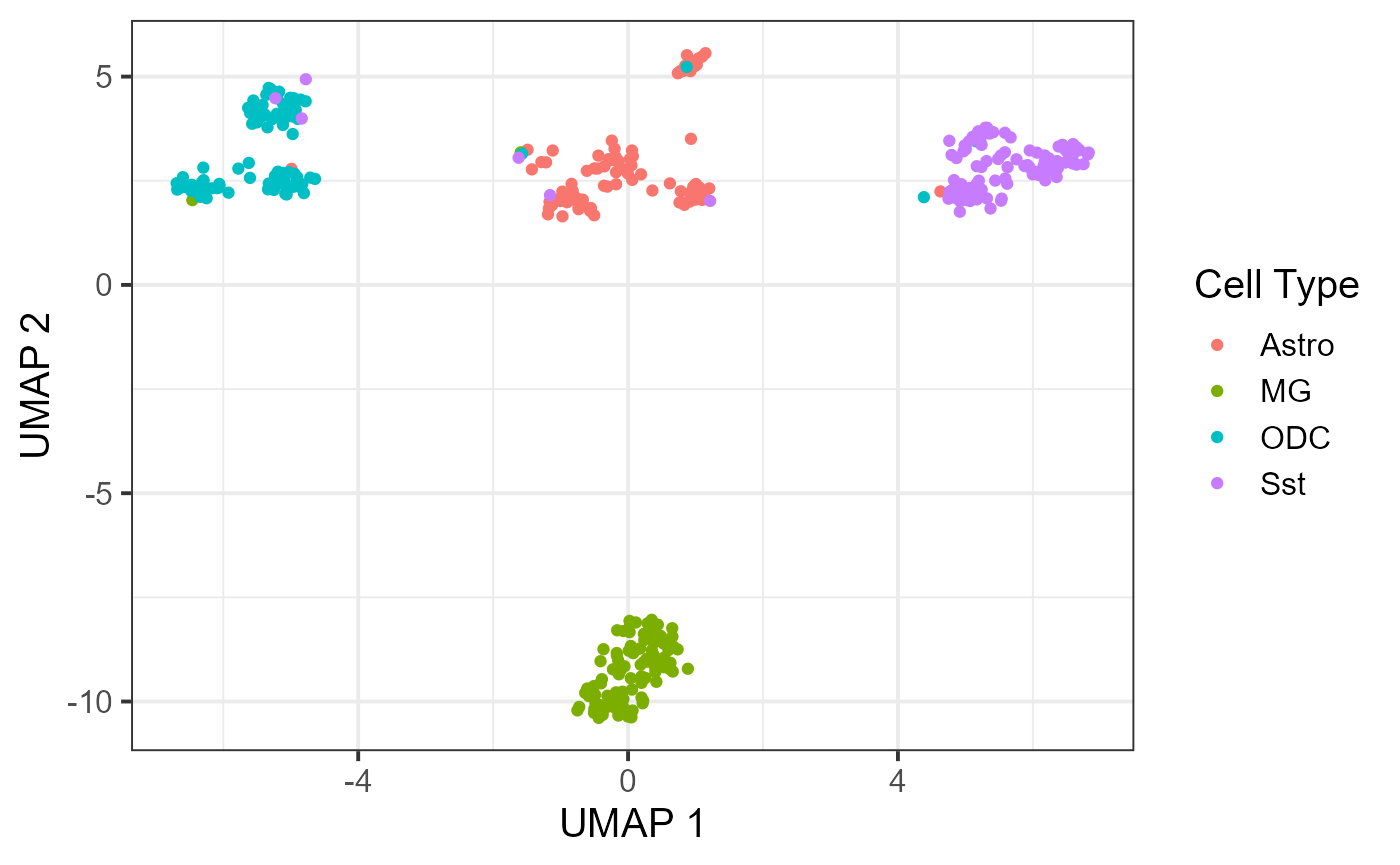
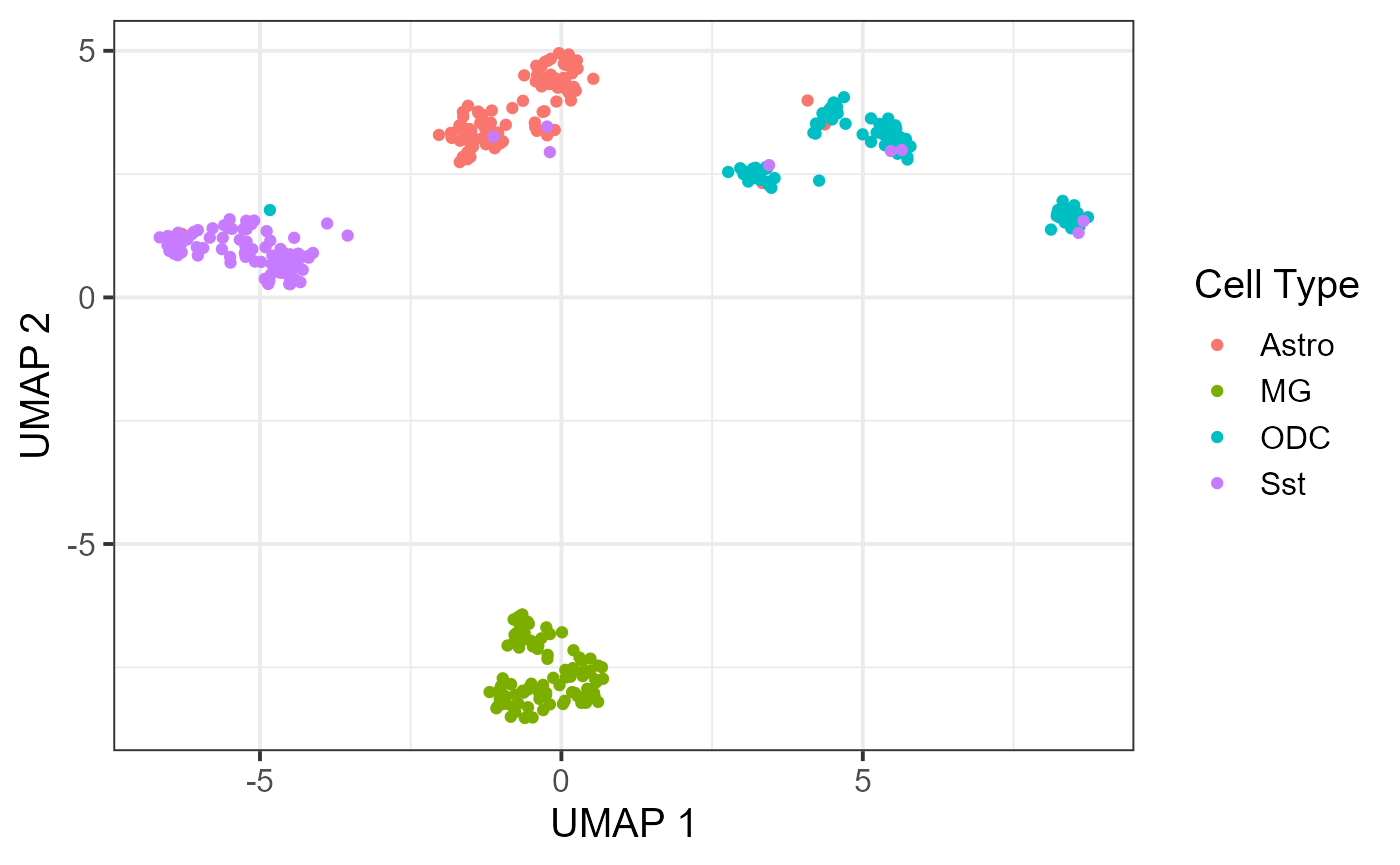
Add files via upload

diff --git a/docs/articles/BandNorm-tutorial.html b/docs/articles/BandNorm-tutorial.html
@@ -238,107 +238,109 @@ chr1    2000000 chr1    4000000 2</code></pre>
 <span class="co">#&gt; Harmony 5/10</span>
 <span class="co">#&gt; Harmony 6/10</span>
 <span class="co">#&gt; Harmony 7/10</span>
-<span class="co">#&gt; Harmony converged after 7 iterations</span>
+<span class="co">#&gt; Harmony 8/10</span>
+<span class="co">#&gt; Harmony 9/10</span>
+<span class="co">#&gt; Harmony converged after 9 iterations</span>
 <span class="va">embedding</span><span class="op">[</span><span class="fl">1</span><span class="op">:</span><span class="fl">10</span>, <span class="op">]</span>
-<span class="co">#&gt;                  PC1       PC2        PC3         PC4        PC5        PC6</span>
-<span class="co">#&gt; Astro_1    1.0293516 49.473692 -76.618811 -36.8752564 -42.022535 -23.354049</span>
-<span class="co">#&gt; Astro_2   -9.1977209 32.347768  -2.756897   8.3822718  -8.160682   4.438291</span>
-<span class="co">#&gt; Astro_3   -0.5292853 14.812305  -2.973394   1.6324264  11.047545 -10.023949</span>
-<span class="co">#&gt; Astro_4   -6.0115586 37.463300 -29.961596  11.2777084 -13.797429  -6.104187</span>
-<span class="co">#&gt; Astro_5   12.0999009 18.577941 -23.574044  13.2213510 -26.996703 -10.876395</span>
-<span class="co">#&gt; Astro_6  -20.6892354 13.743482 -24.919865  -0.7956708  -3.135400   7.802125</span>
-<span class="co">#&gt; Astro_7  -49.4006359 29.103575 -20.027626   6.8908420   1.295028  -1.965032</span>
-<span class="co">#&gt; Astro_8  -11.7727162 34.881938  -6.166616   8.6403040  -6.384149   4.617832</span>
-<span class="co">#&gt; Astro_9  -11.5708831  8.350641 -22.892308  18.7070499 -15.263220  -5.301028</span>
-<span class="co">#&gt; Astro_10 -16.0734039  4.329660 -18.211048   3.1339731 -23.705511  -9.755443</span>
+<span class="co">#&gt;                  PC1       PC2        PC3       PC4         PC5         PC6</span>
+<span class="co">#&gt; Astro_1  -14.6501131 35.794040 -26.929957 33.270183 -33.4263965 -14.2704124</span>
+<span class="co">#&gt; Astro_2  -11.5493750 32.890940   6.022335 12.747598  -6.8500454   4.4846891</span>
+<span class="co">#&gt; Astro_3  -17.9082522 -2.696272 -11.285644 11.141142  -3.6862742 -48.0467603</span>
+<span class="co">#&gt; Astro_4   -4.0823762 30.183169 -23.291190 10.309232  -8.4422266 -12.4845300</span>
+<span class="co">#&gt; Astro_5   16.1390904 16.817009 -26.294061  9.440128 -19.1067581 -11.5911731</span>
+<span class="co">#&gt; Astro_6  -21.0654989 16.484312 -20.201085 -1.818684  -2.0594665   8.8280593</span>
+<span class="co">#&gt; Astro_7  -42.9475014 15.403276 -21.558178 11.339661 -19.2460629 -32.3324311</span>
+<span class="co">#&gt; Astro_8    0.8464861 42.795417   1.403291  7.676227   0.2831818  16.4428145</span>
+<span class="co">#&gt; Astro_9   -9.0018860  8.421569 -15.209882 14.800875  -9.5577083   0.3454511</span>
+<span class="co">#&gt; Astro_10 -16.6289712  6.869891 -13.377367  2.156844 -22.7214611  -9.0985568</span>
 <span class="co">#&gt;                 PC7        PC8       PC9        PC10       PC11       PC12</span>
-<span class="co">#&gt; Astro_1    5.463078 -39.908755 37.371895  -7.5543198  38.568930 -33.102037</span>
-<span class="co">#&gt; Astro_2   -3.914980  -3.740787  9.324096  14.9302331  22.664567 -24.724161</span>
-<span class="co">#&gt; Astro_3  -27.728462  22.269925  5.494555  15.0396810  -3.799887  -8.524067</span>
-<span class="co">#&gt; Astro_4   -3.742008   7.242514  5.243161  -1.9170383 -17.179946 -18.222599</span>
-<span class="co">#&gt; Astro_5   -4.774827   7.453127 46.319538  29.1508380  81.142666 -46.266262</span>
-<span class="co">#&gt; Astro_6  -12.451910  -3.223360 -2.009652   1.1047054   6.289144 -43.766538</span>
-<span class="co">#&gt; Astro_7   -7.223646  -1.338891 -7.333724  -6.9135170  -6.937292  -5.093652</span>
-<span class="co">#&gt; Astro_8  -20.610865   6.190320 -1.715928   0.5955311  17.998392   9.602011</span>
-<span class="co">#&gt; Astro_9   18.812482  27.737164 48.252583  11.8094384  41.092434 -67.756942</span>
-<span class="co">#&gt; Astro_10  11.236069  -2.918244 28.993287 -16.9185304  11.773731 -29.898823</span>
-<span class="co">#&gt;                PC13       PC14       PC15        PC16       PC17        PC18</span>
-<span class="co">#&gt; Astro_1   36.450373 -16.727650  26.892309  -8.1290435  51.809195 -44.4848454</span>
-<span class="co">#&gt; Astro_2   -1.020508   7.944943  -3.754481  10.9843335 -19.575093 -14.7476760</span>
-<span class="co">#&gt; Astro_3   28.377543 -24.561802 -11.678825 -13.8629673  32.477351  -7.4452104</span>
-<span class="co">#&gt; Astro_4    7.638106 -28.233967 -35.049459 -36.6979262  23.466988  -0.3285857</span>
-<span class="co">#&gt; Astro_5   38.215933  16.699635 -10.407043  -4.8891076  13.237492  11.9011582</span>
-<span class="co">#&gt; Astro_6   27.994952   1.503671   9.652660 -16.8868315   1.422629  -9.8344336</span>
-<span class="co">#&gt; Astro_7   19.795840  -9.758172  -5.624113   4.4242897   7.287895 -28.1444404</span>
-<span class="co">#&gt; Astro_8    3.389298 -26.686585  -8.361308 -22.2581458   9.467595   0.5166268</span>
-<span class="co">#&gt; Astro_9  -19.296436  -9.323479  32.195526  45.5151545  -6.140340 -43.9776395</span>
-<span class="co">#&gt; Astro_10  17.931475 -22.066403  -6.880684   0.3976595  20.064442 -22.3763206</span>
-<span class="co">#&gt;                PC19        PC20         PC21       PC22        PC23        PC24</span>
-<span class="co">#&gt; Astro_1   36.600347  26.8185878 -147.0620917  62.975980  13.1925808  -43.660426</span>
-<span class="co">#&gt; Astro_2    8.171562  -1.4955112    9.0129350 -15.638932  -0.1001894    2.150610</span>
-<span class="co">#&gt; Astro_3   20.396139   2.5873515  -14.4104323   5.577496 -15.7555393    4.359450</span>
-<span class="co">#&gt; Astro_4  -27.350005  -0.3935630   -1.0886763 -13.563974 -35.2976197   -2.517836</span>
-<span class="co">#&gt; Astro_5  100.353701   4.8132207   90.9908739   1.436840 137.9149138 -108.072497</span>
-<span class="co">#&gt; Astro_6  -18.436873  -6.1207879    4.8147881  43.919609  -7.9468088   11.584170</span>
-<span class="co">#&gt; Astro_7   -2.912850   4.4504741   -4.2811323  10.185427 -16.8892275   -2.059864</span>
-<span class="co">#&gt; Astro_8   20.856135   0.3562213  -47.2415088 -10.193786 -28.5701192   53.105555</span>
-<span class="co">#&gt; Astro_9  -61.168698 -34.7447627   15.1963450 -43.678426  68.1156788    6.403451</span>
-<span class="co">#&gt; Astro_10  -2.811194 -10.6610313   -0.5190964 -25.226746  -4.7663421    3.187728</span>
-<span class="co">#&gt;                PC25         PC26       PC27          PC28      PC29       PC30</span>
-<span class="co">#&gt; Astro_1   16.878322  -73.4069402  11.565298 -132.12895549  15.99669 -39.139799</span>
-<span class="co">#&gt; Astro_2   -1.671599    6.8910566 -11.619943    0.07659627 -10.85001  13.462678</span>
-<span class="co">#&gt; Astro_3    5.002134   11.1562218 -18.838594    3.52801178  43.71871   3.217179</span>
-<span class="co">#&gt; Astro_4   -2.993162    5.3338359  35.343259    7.07005100  16.53636 -13.925318</span>
-<span class="co">#&gt; Astro_5   47.480065   41.6587233 -52.832806   69.27468765 -53.44459  11.938828</span>
-<span class="co">#&gt; Astro_6    6.021035    0.7363682  24.592123  -10.46160398  24.57937  -1.887627</span>
-<span class="co">#&gt; Astro_7   37.133145   -1.3407220  22.447725    7.72297864  32.12957  -3.287794</span>
-<span class="co">#&gt; Astro_8    4.822512   39.3224695 -32.338640    8.05203637  12.73663 -24.432273</span>
-<span class="co">#&gt; Astro_9    9.823496 -147.7889985  -7.790911   65.90312086 -20.40180   3.733545</span>
-<span class="co">#&gt; Astro_10 -41.053756   -0.6003121  11.323381    2.61211428  13.78707  -4.367368</span>
-<span class="co">#&gt;                PC31       PC32          PC33       PC34       PC35       PC36</span>
-<span class="co">#&gt; Astro_1   15.170835 -61.384365   9.340159071 -23.285969  59.585590 -59.685187</span>
-<span class="co">#&gt; Astro_2    2.619909 -13.081421   8.394563749   8.427431 -11.150123  -4.734391</span>
-<span class="co">#&gt; Astro_3    9.782181 -17.532229 -71.892748279   5.310214  -5.183289  -6.431404</span>
-<span class="co">#&gt; Astro_4  -26.545923  17.482512  -0.008463749  29.012026  14.868218  15.483310</span>
-<span class="co">#&gt; Astro_5  -16.089578  -4.580247   6.651398091 -42.639237  60.222377  15.201723</span>
-<span class="co">#&gt; Astro_6   -2.602373  39.545451  14.782254702  -4.059741  21.021221  10.925223</span>
-<span class="co">#&gt; Astro_7  -21.034836  -1.929582 -31.663202878   5.625456 -37.651852  -8.797673</span>
-<span class="co">#&gt; Astro_8    2.112254   8.790524  41.240476002 -15.072993  64.533421  42.162179</span>
-<span class="co">#&gt; Astro_9   54.508165 -24.035543  -6.492675989 -13.395225 -61.438521 -13.621271</span>
-<span class="co">#&gt; Astro_10 -38.982159  38.013844 -28.381169515  24.180290  12.499797  14.878211</span>
-<span class="co">#&gt;                PC37       PC38       PC39       PC40       PC41        PC42</span>
-<span class="co">#&gt; Astro_1   13.247817  -16.85256  43.202536  -7.055817  -1.683316  -0.2070641</span>
-<span class="co">#&gt; Astro_2    5.001783   18.77908   5.697223   5.230481   3.327796  17.1015400</span>
-<span class="co">#&gt; Astro_3  -10.349191   64.58069  -9.286422 -23.030223   6.024418   9.9562026</span>
-<span class="co">#&gt; Astro_4  -20.831042  -23.26558  31.801104  10.089743 -53.422976 -11.1093791</span>
-<span class="co">#&gt; Astro_5    0.224684  -26.96889  14.546407 -37.383181  71.694498  20.1771640</span>
-<span class="co">#&gt; Astro_6  -17.038125   28.90068  40.873825  44.149871   2.019554  19.0590047</span>
-<span class="co">#&gt; Astro_7  -22.703862   47.85184 -22.433550   1.141341  41.644556 -52.8785130</span>
-<span class="co">#&gt; Astro_8   24.853904 -112.21119  17.176909 -16.520592  -1.972054 -26.5114899</span>
-<span class="co">#&gt; Astro_9   -1.320368   80.83622 -67.838042  25.109245  -9.967477  23.8448185</span>
-<span class="co">#&gt; Astro_10  11.156463  -33.49567 -53.305006 -60.669860 -21.026879  10.2927822</span>
-<span class="co">#&gt;                 PC43        PC44       PC45       PC46       PC47       PC48</span>
-<span class="co">#&gt; Astro_1   -6.5215128 -15.1906129  25.597990  -2.942280 -15.483955  18.799563</span>
-<span class="co">#&gt; Astro_2   31.4258317  -2.1848247  -6.086869 -24.308698   8.063508  -4.890081</span>
-<span class="co">#&gt; Astro_3    0.8390653  33.7975958  41.669168  10.413949  54.169226  75.182113</span>
-<span class="co">#&gt; Astro_4   28.4241608  -2.4405875  18.469685  53.508480  37.046838  -9.282998</span>
-<span class="co">#&gt; Astro_5  -16.0046799  -0.5111173  -6.981688 -13.377257 -49.037175 -14.344441</span>
-<span class="co">#&gt; Astro_6  -44.5623456   9.1873870 -47.659106  15.241128 -28.906248  22.249599</span>
-<span class="co">#&gt; Astro_7  -13.6391401  -6.1774895   7.447094 -54.666682 -11.993722   7.998112</span>
-<span class="co">#&gt; Astro_8   46.9426615  27.3817462 -53.221615  23.026799  21.412688 -25.393771</span>
-<span class="co">#&gt; Astro_9  -25.8759005 -13.3802244  36.020301  17.674731  20.597259 -40.797061</span>
-<span class="co">#&gt; Astro_10  21.0630570  17.7644054  18.374701   2.760565 -35.820752 -10.865968</span>
-<span class="co">#&gt;                 PC49       PC50</span>
-<span class="co">#&gt; Astro_1   38.5229171 -19.136755</span>
-<span class="co">#&gt; Astro_2   -4.1254963  28.762265</span>
-<span class="co">#&gt; Astro_3   -4.3219212  -2.166093</span>
-<span class="co">#&gt; Astro_4   35.3323296  30.507097</span>
-<span class="co">#&gt; Astro_5   -5.5908174  -4.588561</span>
-<span class="co">#&gt; Astro_6    0.1494455 -11.449717</span>
-<span class="co">#&gt; Astro_7  -15.5481144  38.296103</span>
-<span class="co">#&gt; Astro_8    5.4483902  31.735607</span>
-<span class="co">#&gt; Astro_9   35.4435382 -12.440492</span>
-<span class="co">#&gt; Astro_10 -49.6520784 -82.831661</span></code></pre></div>
+<span class="co">#&gt; Astro_1   -9.893100 -38.275330 40.390721   5.1422528  14.063077 -27.273650</span>
+<span class="co">#&gt; Astro_2   -6.992088  -8.607405  4.610836  14.5242222  19.683410 -18.141533</span>
+<span class="co">#&gt; Astro_3   -8.350202  12.640407 29.487530 -28.7159924 -11.621696   3.415619</span>
+<span class="co">#&gt; Astro_4    7.568261  -0.646856  1.160359 -12.7661866  -3.005631 -11.686442</span>
+<span class="co">#&gt; Astro_5   -4.628303  19.387042 43.690896  28.8382653  77.916945 -46.538177</span>
+<span class="co">#&gt; Astro_6  -15.713098  -6.602876 -6.618219   0.9296112   2.832349 -38.269315</span>
+<span class="co">#&gt; Astro_7    5.081892  -5.312322 20.034557 -43.3152336 -27.680622   2.033148</span>
+<span class="co">#&gt; Astro_8  -19.700065  12.444542 -1.329663  -0.5531044  26.726897   1.821310</span>
+<span class="co">#&gt; Astro_9   17.646133  34.632471 40.705946  13.5014833  45.501442 -69.275670</span>
+<span class="co">#&gt; Astro_10   8.235005  -6.686641 24.304774 -17.4052485   8.677598 -24.189067</span>
+<span class="co">#&gt;                 PC13       PC14       PC15       PC16        PC17       PC18</span>
+<span class="co">#&gt; Astro_1   47.6585614 -49.297386   1.422643 -41.302332  71.2174526 -46.930191</span>
+<span class="co">#&gt; Astro_2    6.1233578   7.679479  -7.921929   4.651489 -16.5765769 -11.320522</span>
+<span class="co">#&gt; Astro_3   17.3895701   1.618277  10.506708  19.637418  33.8763856 -13.576092</span>
+<span class="co">#&gt; Astro_4   -0.7170254   4.304638 -17.367347  -6.988495  -0.8474449   3.055825</span>
+<span class="co">#&gt; Astro_5   31.5170290  23.430777 -21.159022   2.504391   9.4134301  18.823474</span>
+<span class="co">#&gt; Astro_6   35.1268607   0.280321   4.033280 -23.508942   5.1458926  -6.029884</span>
+<span class="co">#&gt; Astro_7   19.9729557  -6.940143  -2.773257   8.219398  32.8314915 -30.009543</span>
+<span class="co">#&gt; Astro_8   -2.2116034 -47.740928   1.140185 -12.547012 -14.2979985   5.550314</span>
+<span class="co">#&gt; Astro_9  -27.3510272 -17.344704  33.701714  42.900302 -19.2709876 -44.891560</span>
+<span class="co">#&gt; Astro_10  25.0097923 -22.696931 -11.961295  -5.772675  23.4792874 -18.575840</span>
+<span class="co">#&gt;                PC19        PC20        PC21       PC22       PC23        PC24</span>
+<span class="co">#&gt; Astro_1   26.354310  15.3447029 -162.774726  58.502400   2.145823  -35.007123</span>
+<span class="co">#&gt; Astro_2   14.618279   6.4442004    4.375259  -5.036139 -11.283573    4.385480</span>
+<span class="co">#&gt; Astro_3   57.408634  19.8447105  -20.030937  -5.087167  10.756442   26.603278</span>
+<span class="co">#&gt; Astro_4   -9.113338  18.2380014   13.068773  -2.887471 -22.413293  -15.900777</span>
+<span class="co">#&gt; Astro_5   98.752527   4.3635566  113.855077  -8.552757 133.621093 -103.118981</span>
+<span class="co">#&gt; Astro_6  -14.113550   0.6363645    2.314855  53.811966 -20.331774   15.358698</span>
+<span class="co">#&gt; Astro_7   14.384259   2.6937196  -17.697729   2.158267  -9.642193   27.645593</span>
+<span class="co">#&gt; Astro_8    5.302932 -22.7811478  -38.102588 -21.382442 -32.445043   34.079146</span>
+<span class="co">#&gt; Astro_9  -74.598668 -47.5540582   19.997057 -58.160452  63.704528   -8.776339</span>
+<span class="co">#&gt; Astro_10   2.182202  -3.4145137   -3.249810 -15.014111 -16.907016    6.711440</span>
+<span class="co">#&gt;                PC25        PC26       PC27        PC28       PC29       PC30</span>
+<span class="co">#&gt; Astro_1   11.398981  -77.629777  23.431427 -142.650139  19.902931 -37.106898</span>
+<span class="co">#&gt; Astro_2   -1.441752   26.815617  -8.657797  -12.639073  -6.395343  14.130070</span>
+<span class="co">#&gt; Astro_3    3.457160   12.388722 -33.298558   23.638493  22.569676  10.984663</span>
+<span class="co">#&gt; Astro_4   -4.084076   10.104320  27.297939   16.738369   9.910400 -14.503708</span>
+<span class="co">#&gt; Astro_5   45.720676   52.728120 -59.220034   91.897657 -51.432769  16.977010</span>
+<span class="co">#&gt; Astro_6    5.501955   21.407782  28.429067  -21.125872  30.338044  -0.840262</span>
+<span class="co">#&gt; Astro_7   29.548669    6.937027  23.086366   22.501923   5.178714 -19.884899</span>
+<span class="co">#&gt; Astro_8    8.078732   -5.878556 -33.353586   23.443458  11.614629 -40.743229</span>
+<span class="co">#&gt; Astro_9   21.062966 -167.668044 -19.315371   72.105035 -20.045361  -8.025357</span>
+<span class="co">#&gt; Astro_10 -41.384532   20.272377  14.919187   -8.398508  19.272539  -3.377336</span>
+<span class="co">#&gt;                PC31       PC32       PC33       PC34       PC35         PC36</span>
+<span class="co">#&gt; Astro_1   13.940749 -66.516080  12.212057 -12.046288  58.174886 -67.70078683</span>
+<span class="co">#&gt; Astro_2   -5.156106  -9.923566   5.308041   8.344931  -9.364407  -0.07797766</span>
+<span class="co">#&gt; Astro_3   17.109007 -22.333696 -70.395349  -6.091890  11.743566   1.53427672</span>
+<span class="co">#&gt; Astro_4  -21.324727  22.582113 -15.980537  14.452987  11.352268  22.09100935</span>
+<span class="co">#&gt; Astro_5  -19.315350   5.393946  -4.062355 -40.288770  54.248420  30.09942800</span>
+<span class="co">#&gt; Astro_6  -11.793116  46.043744  11.418334  -2.602233  21.629464  18.34668433</span>
+<span class="co">#&gt; Astro_7  -26.709243  -2.366446 -25.573412   2.228727 -48.331837   6.02339783</span>
+<span class="co">#&gt; Astro_8   16.427046  14.656218  44.214377 -21.430029  56.206216  35.01209914</span>
+<span class="co">#&gt; Astro_9   63.697973 -34.314379  -2.700084 -23.906961 -61.252516 -25.63741360</span>
+<span class="co">#&gt; Astro_10 -48.038519  44.068115 -31.752419  25.249644  13.372285  22.03897287</span>
+<span class="co">#&gt;                PC37         PC38       PC39       PC40       PC41       PC42</span>
+<span class="co">#&gt; Astro_1   13.868463   -0.6927935  42.376992  -5.701220 -10.856925   7.248710</span>
+<span class="co">#&gt; Astro_2    4.475232    9.9682314   9.128378   1.423304   2.253510  13.710129</span>
+<span class="co">#&gt; Astro_3  -13.151559   43.9942176  -1.671821 -24.439618   6.339248   7.423572</span>
+<span class="co">#&gt; Astro_4  -23.419123  -17.0369511  37.234320   8.503275 -37.215341  -8.656405</span>
+<span class="co">#&gt; Astro_5   -8.394536  -19.5274464  11.248576 -39.841049  68.380108  14.480922</span>
+<span class="co">#&gt; Astro_6  -17.680420   21.5788231  43.486581  40.214256  -0.980155  16.713526</span>
+<span class="co">#&gt; Astro_7  -16.940985   25.5687913 -35.389230  12.138103  26.226685 -37.756463</span>
+<span class="co">#&gt; Astro_8   37.058120 -108.0574375  14.017434 -11.054379   8.619459 -17.433400</span>
+<span class="co">#&gt; Astro_9    6.534253   57.0276154 -70.237030  26.741054   3.365223   9.530105</span>
+<span class="co">#&gt; Astro_10  10.516028  -41.3697639 -50.498112 -64.670382 -23.635131   7.683832</span>
+<span class="co">#&gt;                PC43       PC44       PC45       PC46       PC47       PC48</span>
+<span class="co">#&gt; Astro_1   -3.878339 -10.314664  37.828601  11.684125 -11.916266  16.785764</span>
+<span class="co">#&gt; Astro_2   37.327142  -2.381841 -10.006133 -32.252898   3.281723   0.364976</span>
+<span class="co">#&gt; Astro_3   -3.907478  38.283763  28.895170  25.640104  47.706991  60.366670</span>
+<span class="co">#&gt; Astro_4   18.227538   2.045541  15.931397  46.316045  28.189990   4.057235</span>
+<span class="co">#&gt; Astro_5  -15.623888   6.325681  -7.468943  -6.191530 -36.765109  -6.238910</span>
+<span class="co">#&gt; Astro_6  -38.284608   9.220413 -52.431195   6.481284 -34.515911  26.724122</span>
+<span class="co">#&gt; Astro_7  -10.926565 -14.445863   4.925937 -59.342373 -13.075433  -2.045919</span>
+<span class="co">#&gt; Astro_8   44.496551  28.977305 -55.128077  22.695489  26.817120 -36.864746</span>
+<span class="co">#&gt; Astro_9  -18.460910 -15.417296  32.789926  22.713878  46.220920 -44.824053</span>
+<span class="co">#&gt; Astro_10  27.297937  17.702324  13.518046  -6.137671 -41.460830  -6.196669</span>
+<span class="co">#&gt;                 PC49        PC50</span>
+<span class="co">#&gt; Astro_1   37.6346540 -19.3810854</span>
+<span class="co">#&gt; Astro_2   -9.9394938  34.6292588</span>
+<span class="co">#&gt; Astro_3   -3.0954477   0.3879654</span>
+<span class="co">#&gt; Astro_4   37.0493223  26.2635340</span>
+<span class="co">#&gt; Astro_5   -7.8278301   3.5619737</span>
+<span class="co">#&gt; Astro_6   -7.7873799  -6.4565146</span>
+<span class="co">#&gt; Astro_7   -0.6113016  37.5039600</span>
+<span class="co">#&gt; Astro_8   20.4901664  19.6949220</span>
+<span class="co">#&gt; Astro_9   59.1490729   0.9830698</span>
+<span class="co">#&gt; Astro_10 -57.3367617 -77.6523854</span></code></pre></div>
 <p>Finally, using the embedding, you can use UMAP or tSNE to get a projection of all the cells on the 2D plane. If you have the cell-type information or batch information, it is possible to color them on the plot.</p>
 <div class="sourceCode" id="cb9"><pre class="downlit sourceCode r">
 <code class="sourceCode R"><span class="fu"><a href="../reference/plot_embedding.html">plot_embedding</a></span><span class="op">(</span><span class="va">embedding</span>, <span class="st">"UMAP"</span>, cell_info <span class="op">=</span> <span class="va">cell_type</span>, label <span class="op">=</span> <span class="st">"Cell Type"</span><span class="op">)</span></code></pre></div>

diff --git a/docs/reference/download_schic.html b/docs/reference/download_schic.html
@@ -160,7 +160,7 @@
 
     <h2 class="hasAnchor" id="examples"><a class="anchor" href="#examples"></a>Examples</h2>
     <pre class="examples"><div class='input'><span class='fu'>download_schic</span><span class='op'>(</span><span class='st'>"Li2019"</span>, cell_path <span class='op'>=</span> <span class='fu'><a href='https://rdrr.io/r/base/getwd.html'>getwd</a></span><span class='op'>(</span><span class='op'>)</span><span class='op'>)</span>
-</div><div class='output co'>#&gt; <span class='error'>Error in dir.exists(summary_path): invalid filename argument</span></div></pre>
+</div><div class='output co'>#&gt; [1] TRUE</div></pre>
   </div>
   <div class="col-md-3 hidden-xs hidden-sm" id="pkgdown-sidebar">
     <nav id="toc" data-toggle="toc" class="sticky-top">
